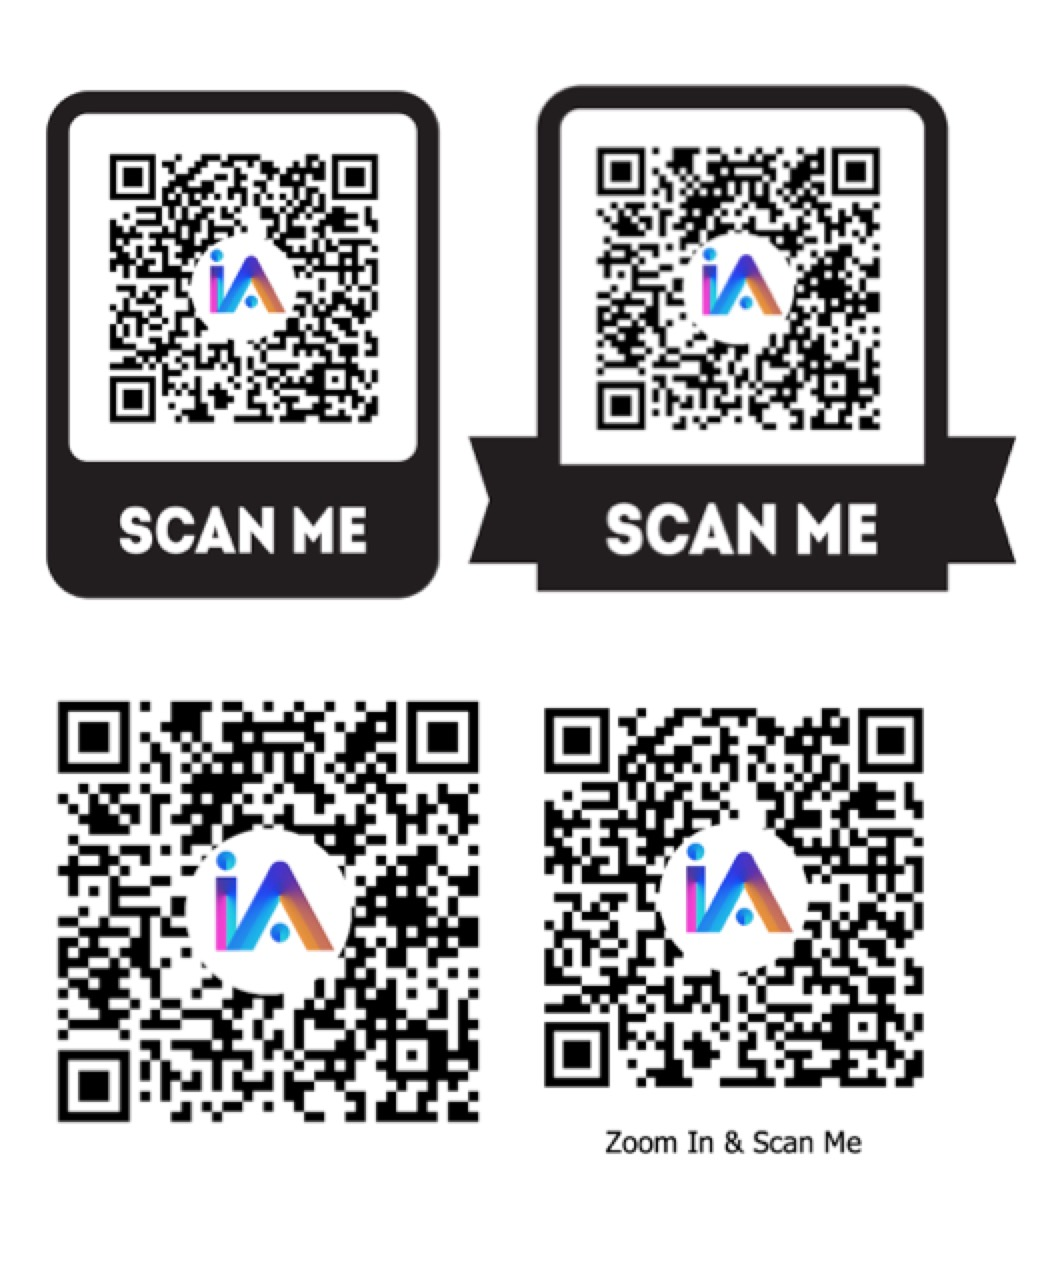
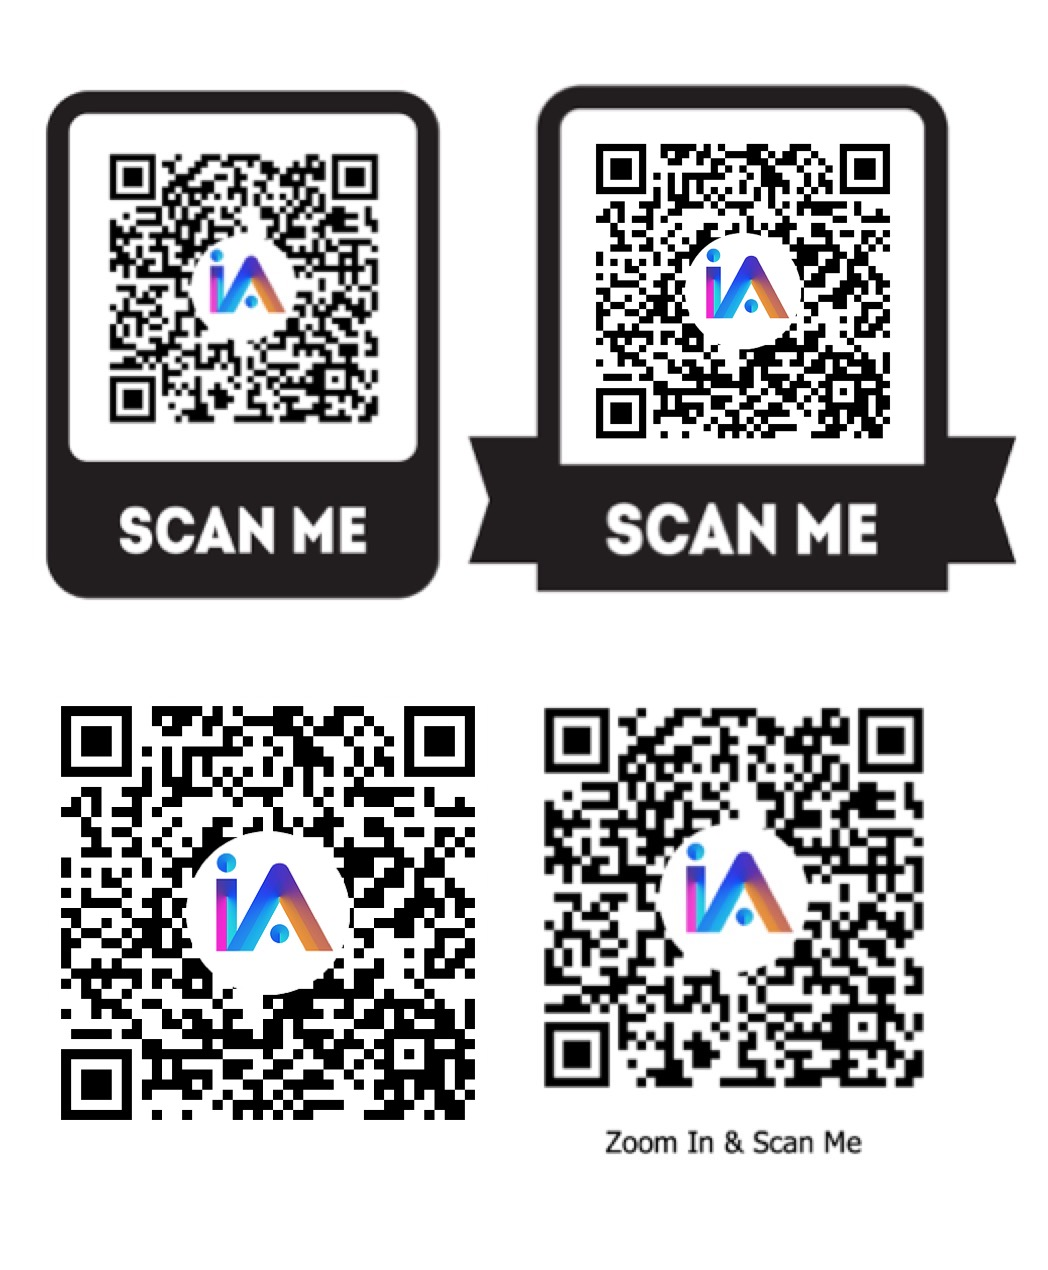
update stripe + qr services

Changed region(s): [[0.0305, 0.5528, 0.458, 0.8906], [0.5496, 0.0921, 0.855, 0.3685]]

diff --git a/_services/QR.md b/_services/QR.md
@@ -25,7 +25,7 @@ tag: IoT
 
 <div class="col-12">
     <center>
-    <img class="mb-50" src="/assets/img/services/qr_analytics.jpg" alt="">
+    <img class="mb-50" src="/assets/img/services/qr_analytics2.png" alt="">
 </center>
 </div>
 
